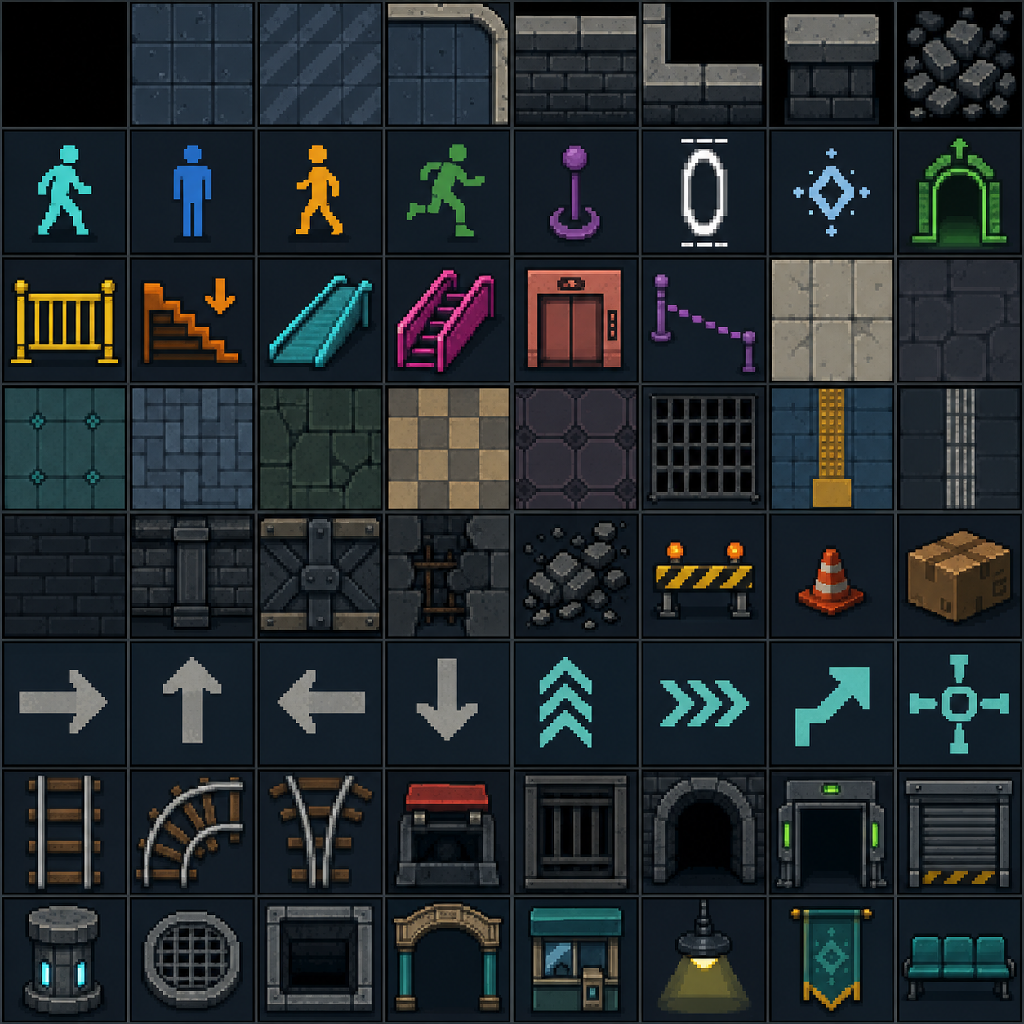
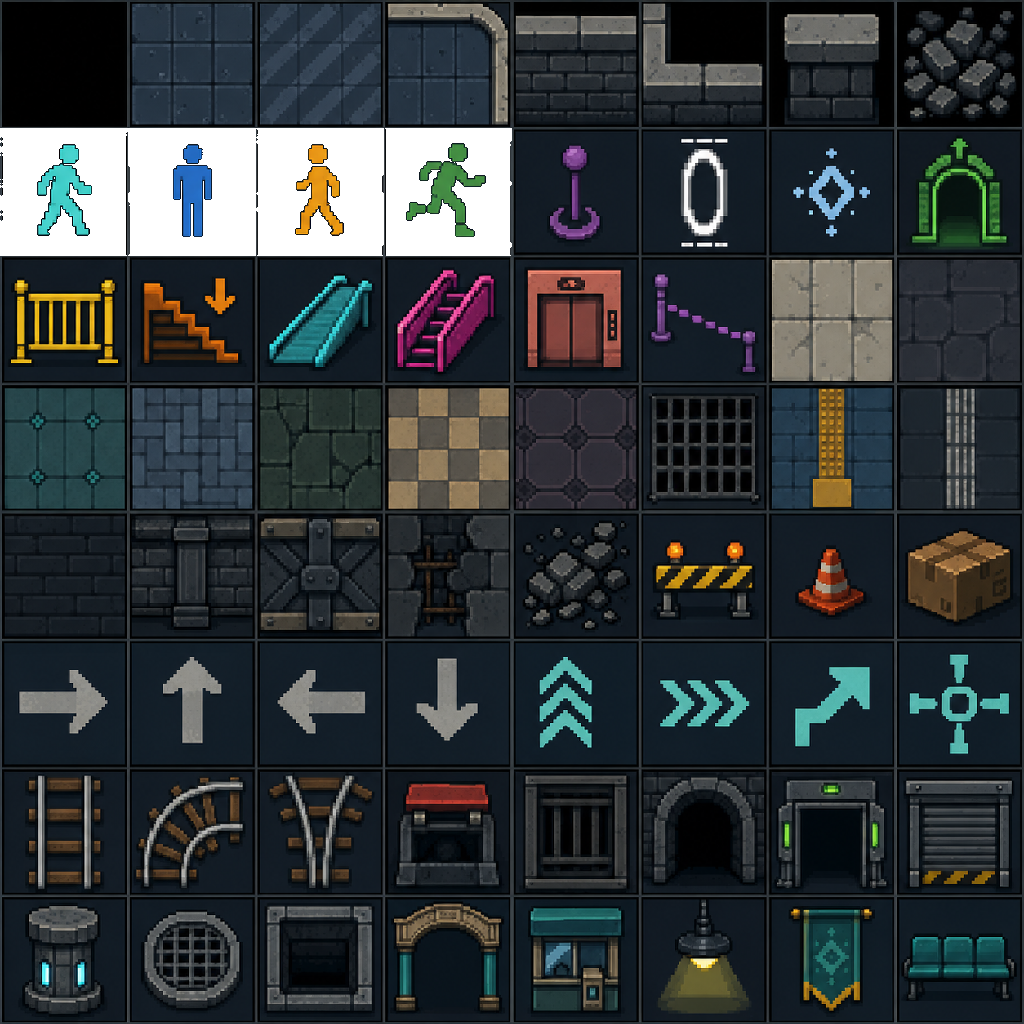
replayabilityelement

Changed region(s): [[0.0, 0.125, 0.5, 0.25]]

diff --git a/crates/chiyoda-replay/src/main.rs b/crates/chiyoda-replay/src/main.rs
@@ -598,9 +598,7 @@ fn replay(
         if let Some(status) = watch.as_ref().map(WatchController::status) {
             draw_watch_status(&mut buffer, status);
         }
-        if debug_panel_open
-            && let Some(current_bundle) = &bundle
-        {
+        if debug_panel_open && let Some(current_bundle) = &bundle {
             draw_debug_panel(
                 &mut buffer,
                 current_bundle,
@@ -1009,7 +1007,11 @@ fn draw_debug_panel(
         waiting,
         in_transit,
         evacuated,
-        if uses_sprite_atlas { "SPRITE" } else { "GEOMETRIC" },
+        if uses_sprite_atlas {
+            "SPRITE"
+        } else {
+            "GEOMETRIC"
+        },
     );
     draw_pixel_rectangle(
         buffer,
@@ -3156,7 +3158,11 @@ agents passengers count 1 on concourse at (1m, 4m, 0m) to street speed 1.2m/s ra
         assert!(buffer.contains(&DEBUG_LABEL));
         assert!(buffer.contains(&DEBUG_TEXT));
         assert_eq!(debug_label("abcdefghijklmnop", 14), "abcdefghijklmn...");
-        assert_eq!(debug_state_counts(&bundle.trace[0]).0, 0);
+        let state_counts = debug_state_counts(&bundle.trace[0]);
+        assert_eq!(
+            state_counts.0 + state_counts.1 + state_counts.2 + state_counts.3,
+            bundle.trace[0].agents.len()
+        );
     }
 
     #[test]

diff --git a/docs/replay.md b/docs/replay.md
@@ -54,6 +54,9 @@ Linux display server.
 - Left and right arrows step the trace.
 - Tab cycles surfaces in their authored declaration order.
 - V toggles between the selected-surface 2D view and an all-surface isometric overview.
+- D toggles the top-right debug panel. It starts open and reports playback
+  state, frame/step/time, speed, view, selected surface, agent-state counts,
+  and whether the geometric or sprite renderer is active.
 - P writes the current rendered frame as a PNG under `--snapshot-dir` (default
   `out/chiyoda-replay`). No image is written until P is pressed; existing
   snapshots are never overwritten.
@@ -98,6 +101,10 @@ The included original limited-palette atlas is
 obstacles, connectors, queue positions, markers, and agent states distinct
 top-down pixel forms. It uses static sprites: an agent's recorded position and
 state change, but the renderer does not invent animation frames or behavior.
+Its four human-state tiles are alpha-transparent outside their silhouettes, so
+the authored surface remains visible beneath agents rather than a dark tile
+background. The atlas remains one replaceable RGBA PNG; no separate asset is
+required by the renderer.
 
 An atlas manifest names a relative RGB/RGBA PNG, declares its uniform tile
 dimensions, and maps each required visual role to a grid cell. This makes a
